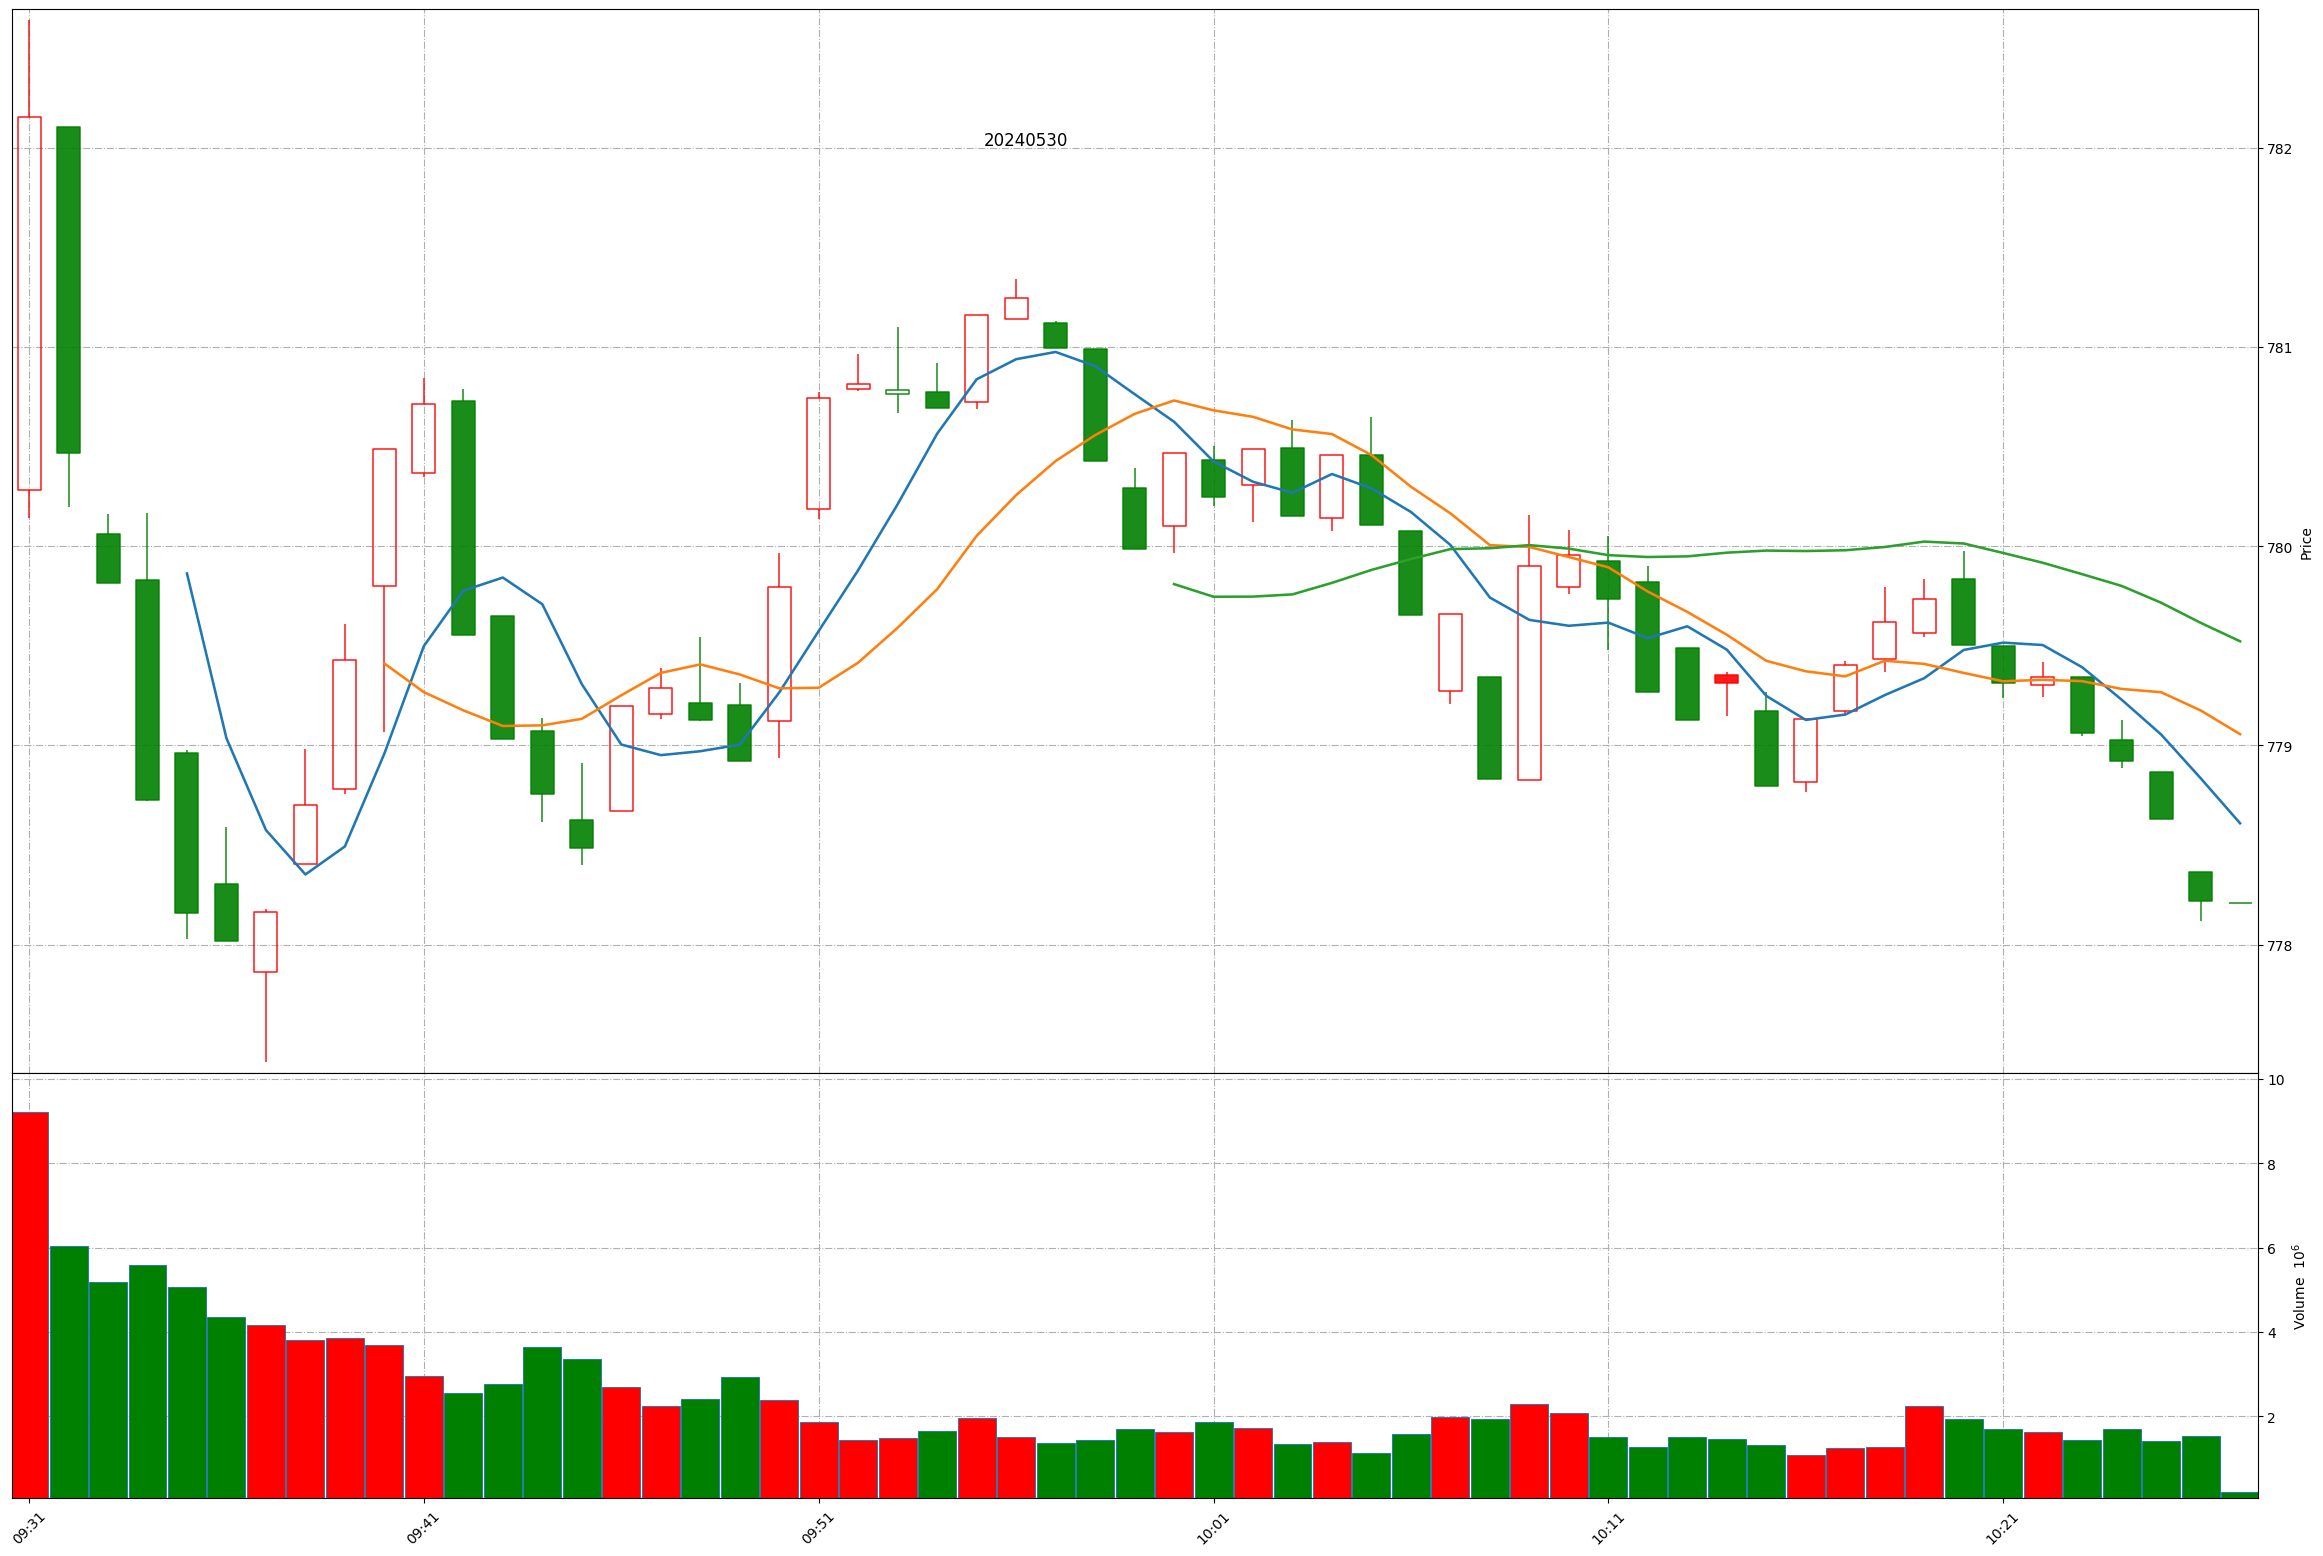
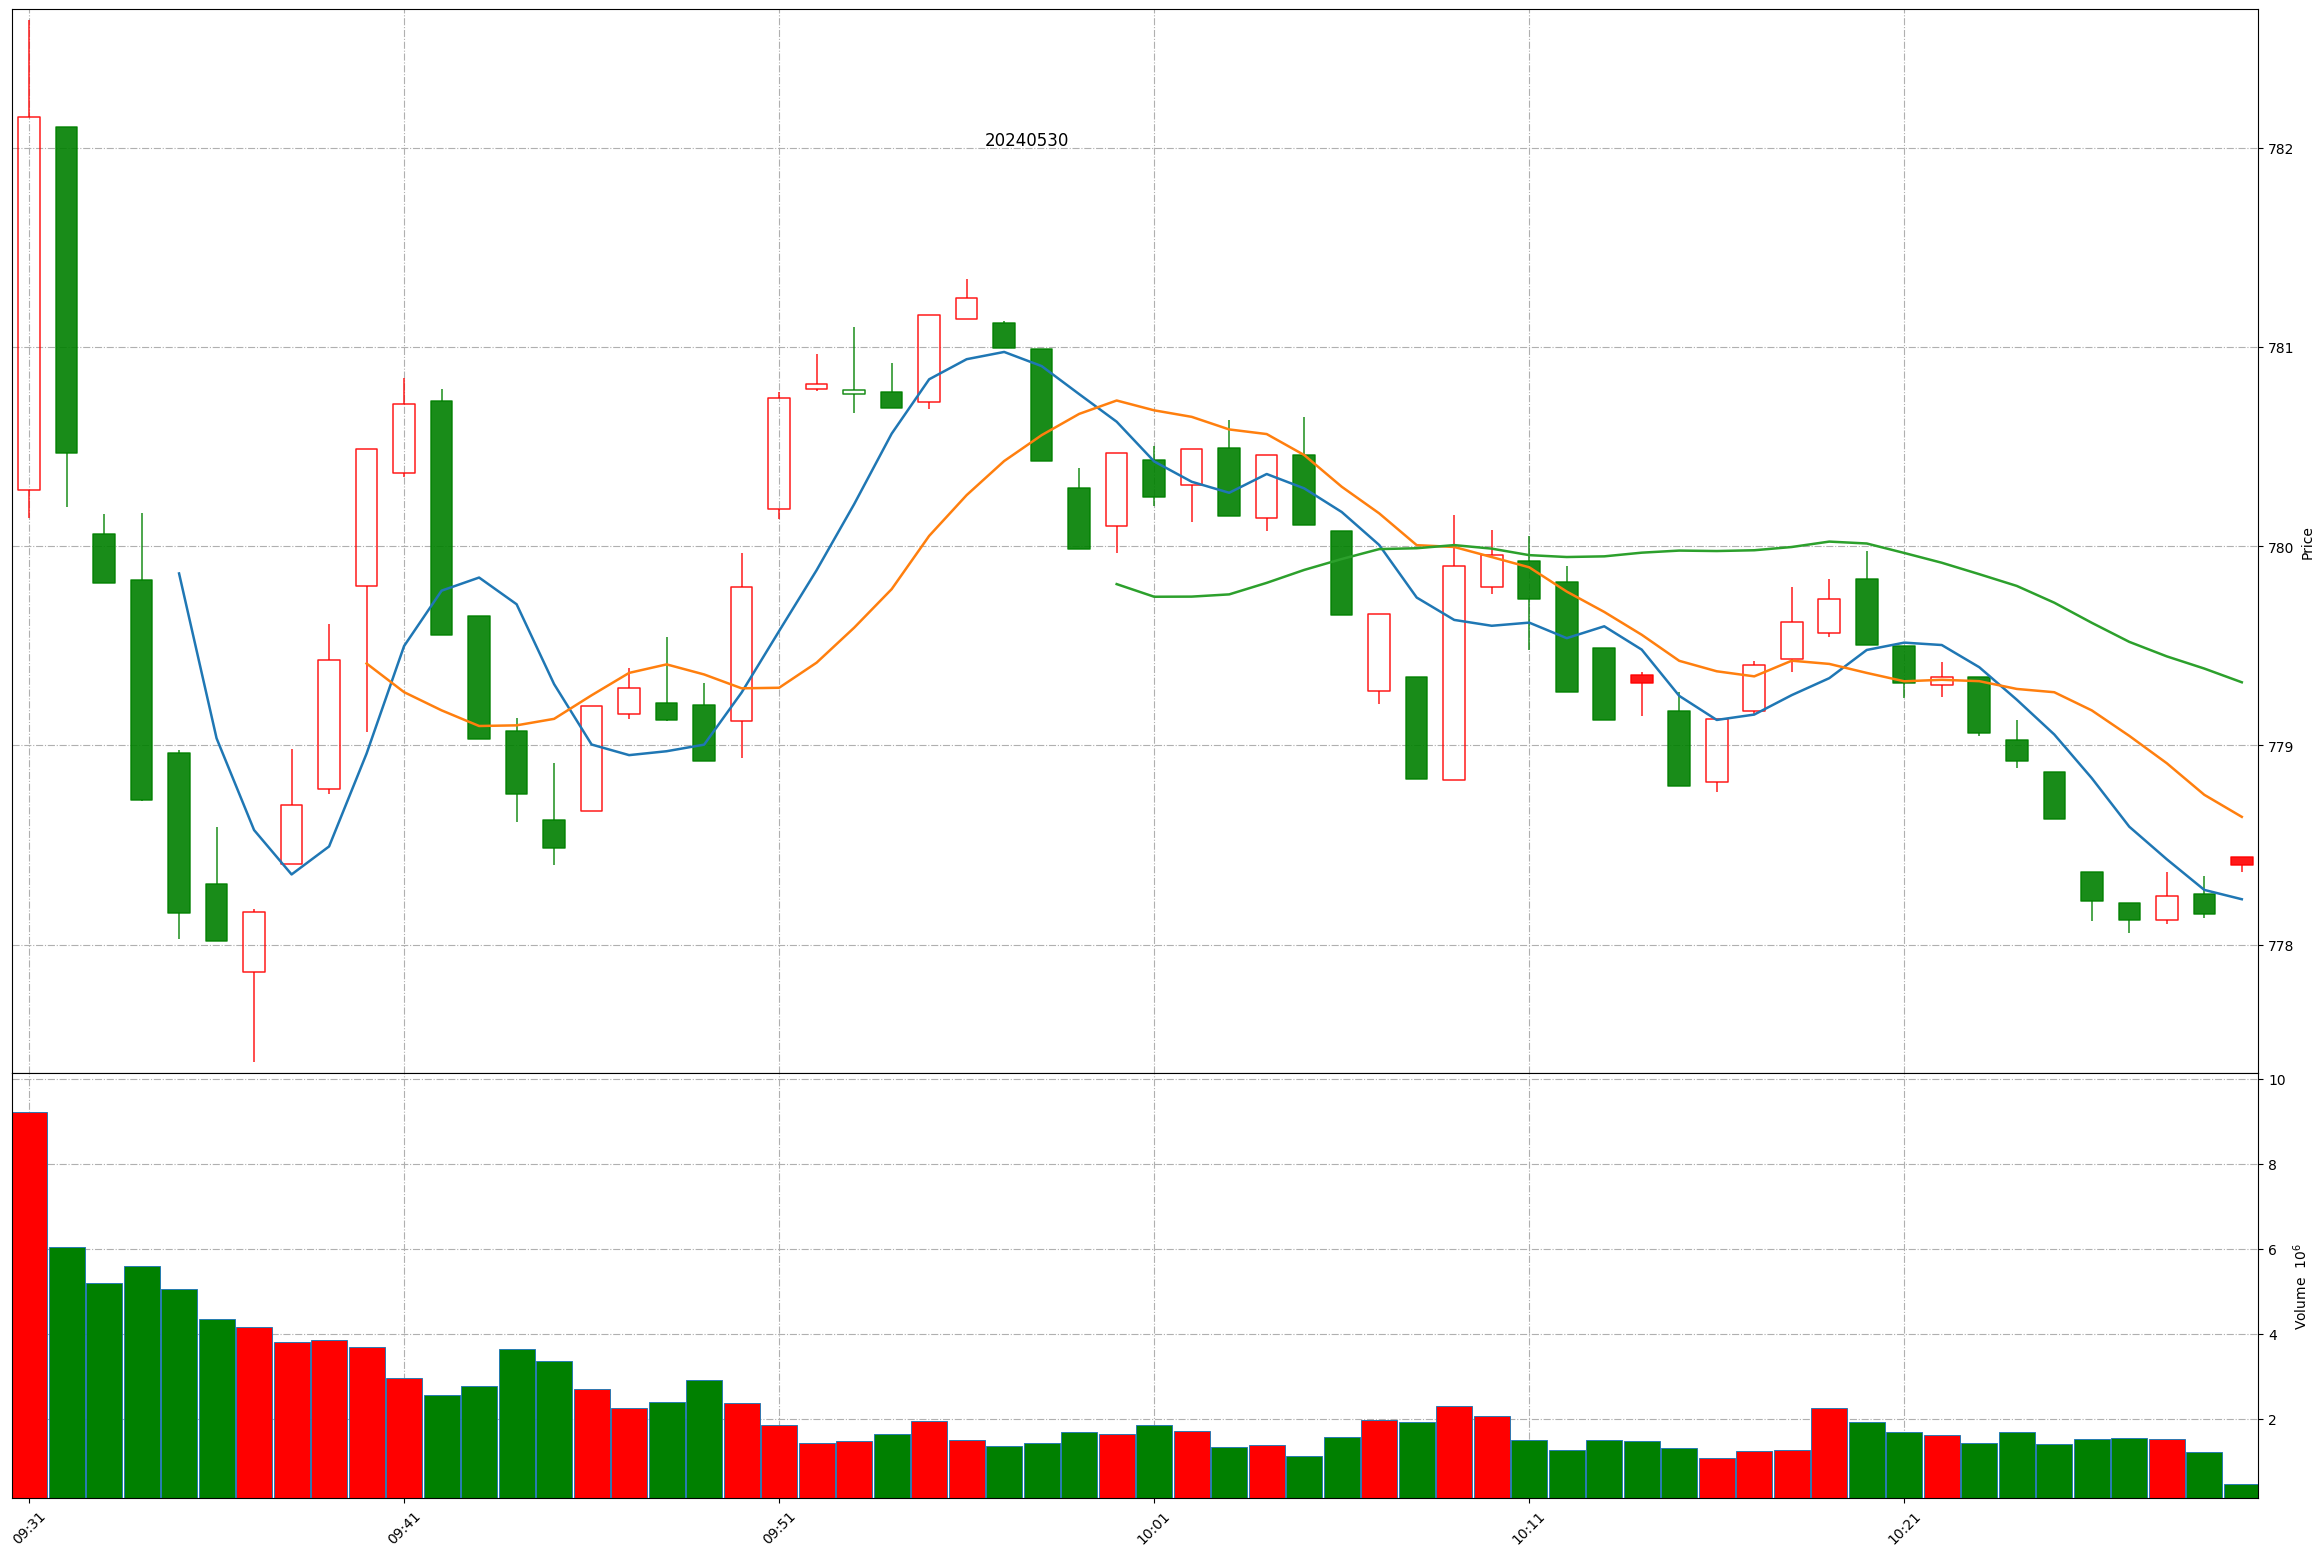
Github action update at 2024-05-30 10:29:33.

diff --git a/README.md b/README.md
@@ -1,11 +1,11 @@
 
 # Daily-A-share-market-quotes 每日 A 股指数（5min 更新）- 20240530
 
-### 上证指数 20240530 10:26
+### 上证指数 20240530 10:29
 ![](./fig/2024/5/20240530-sh000001.png)
 
-### 深证成指 20240530 10:26
+### 深证成指 20240530 10:29
 ![](./fig/2024/5/20240530-sz399001.png)
 
-### 北证50 20240530 10:26
+### 北证50 20240530 10:29
 ![](./fig/2024/5/20240530-bj899050.png)
